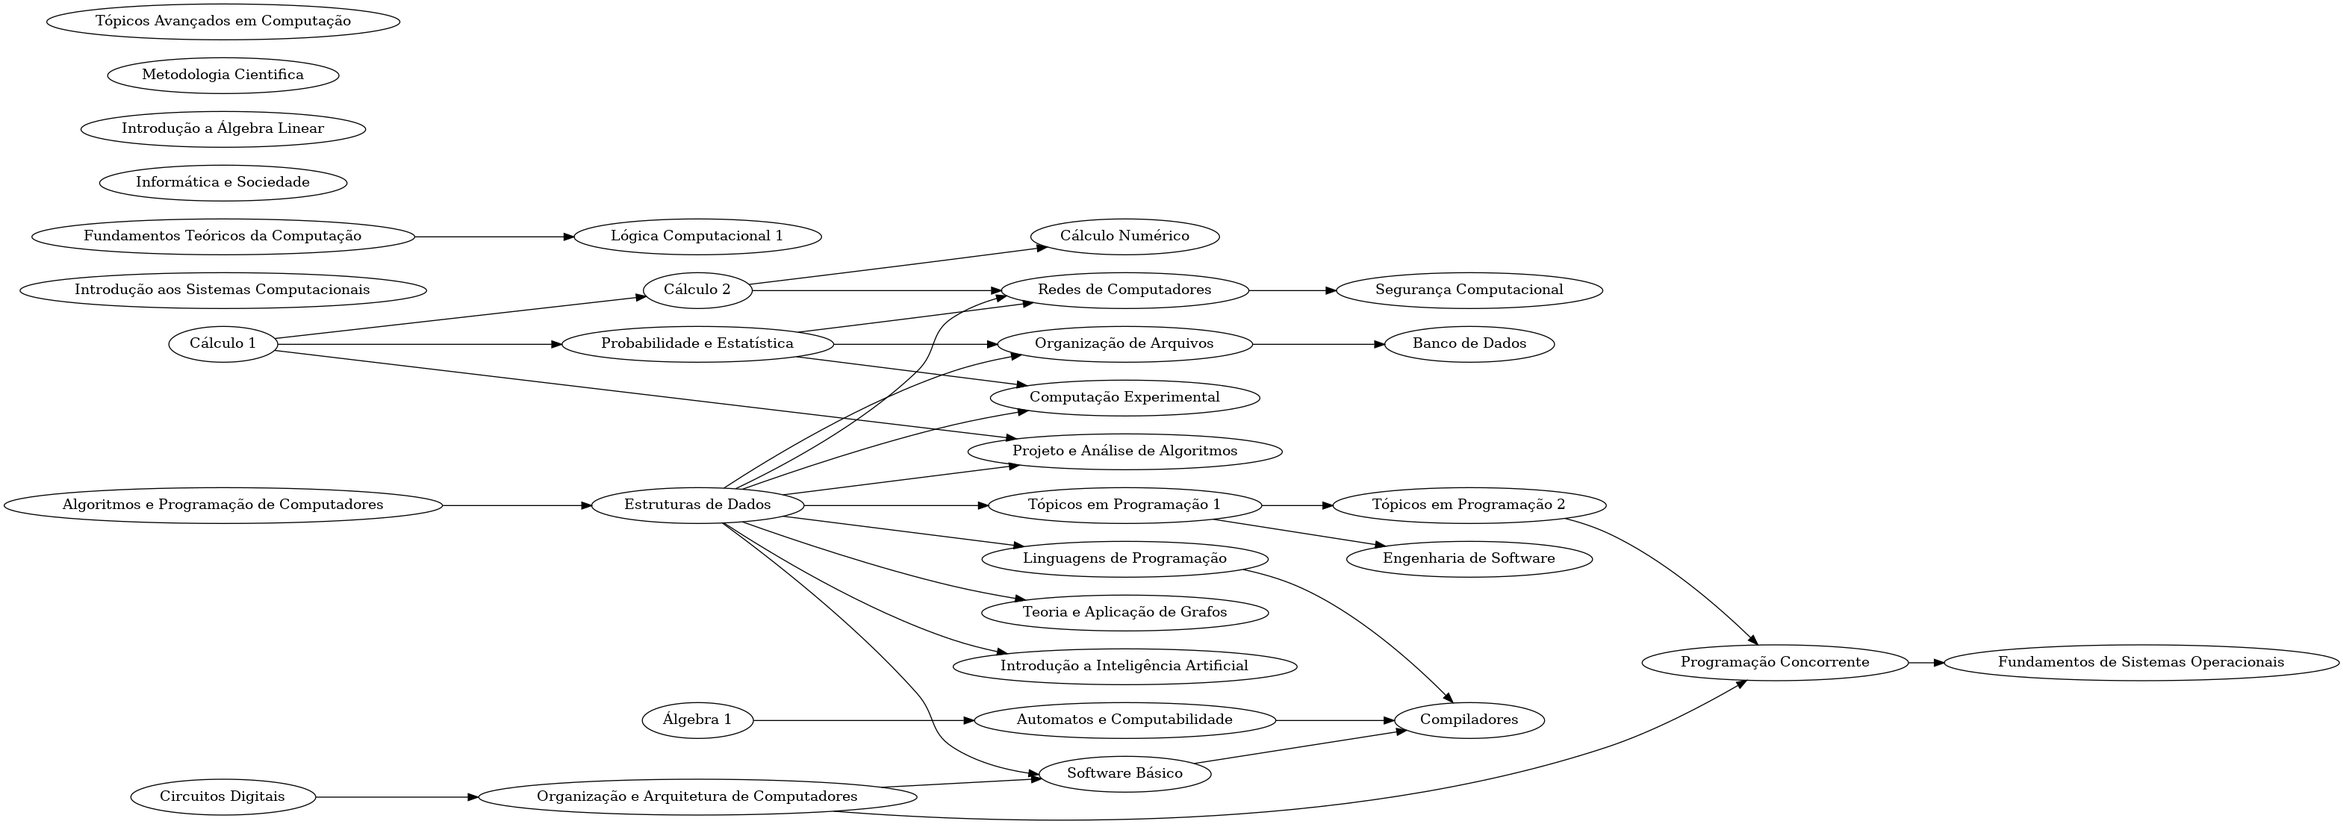
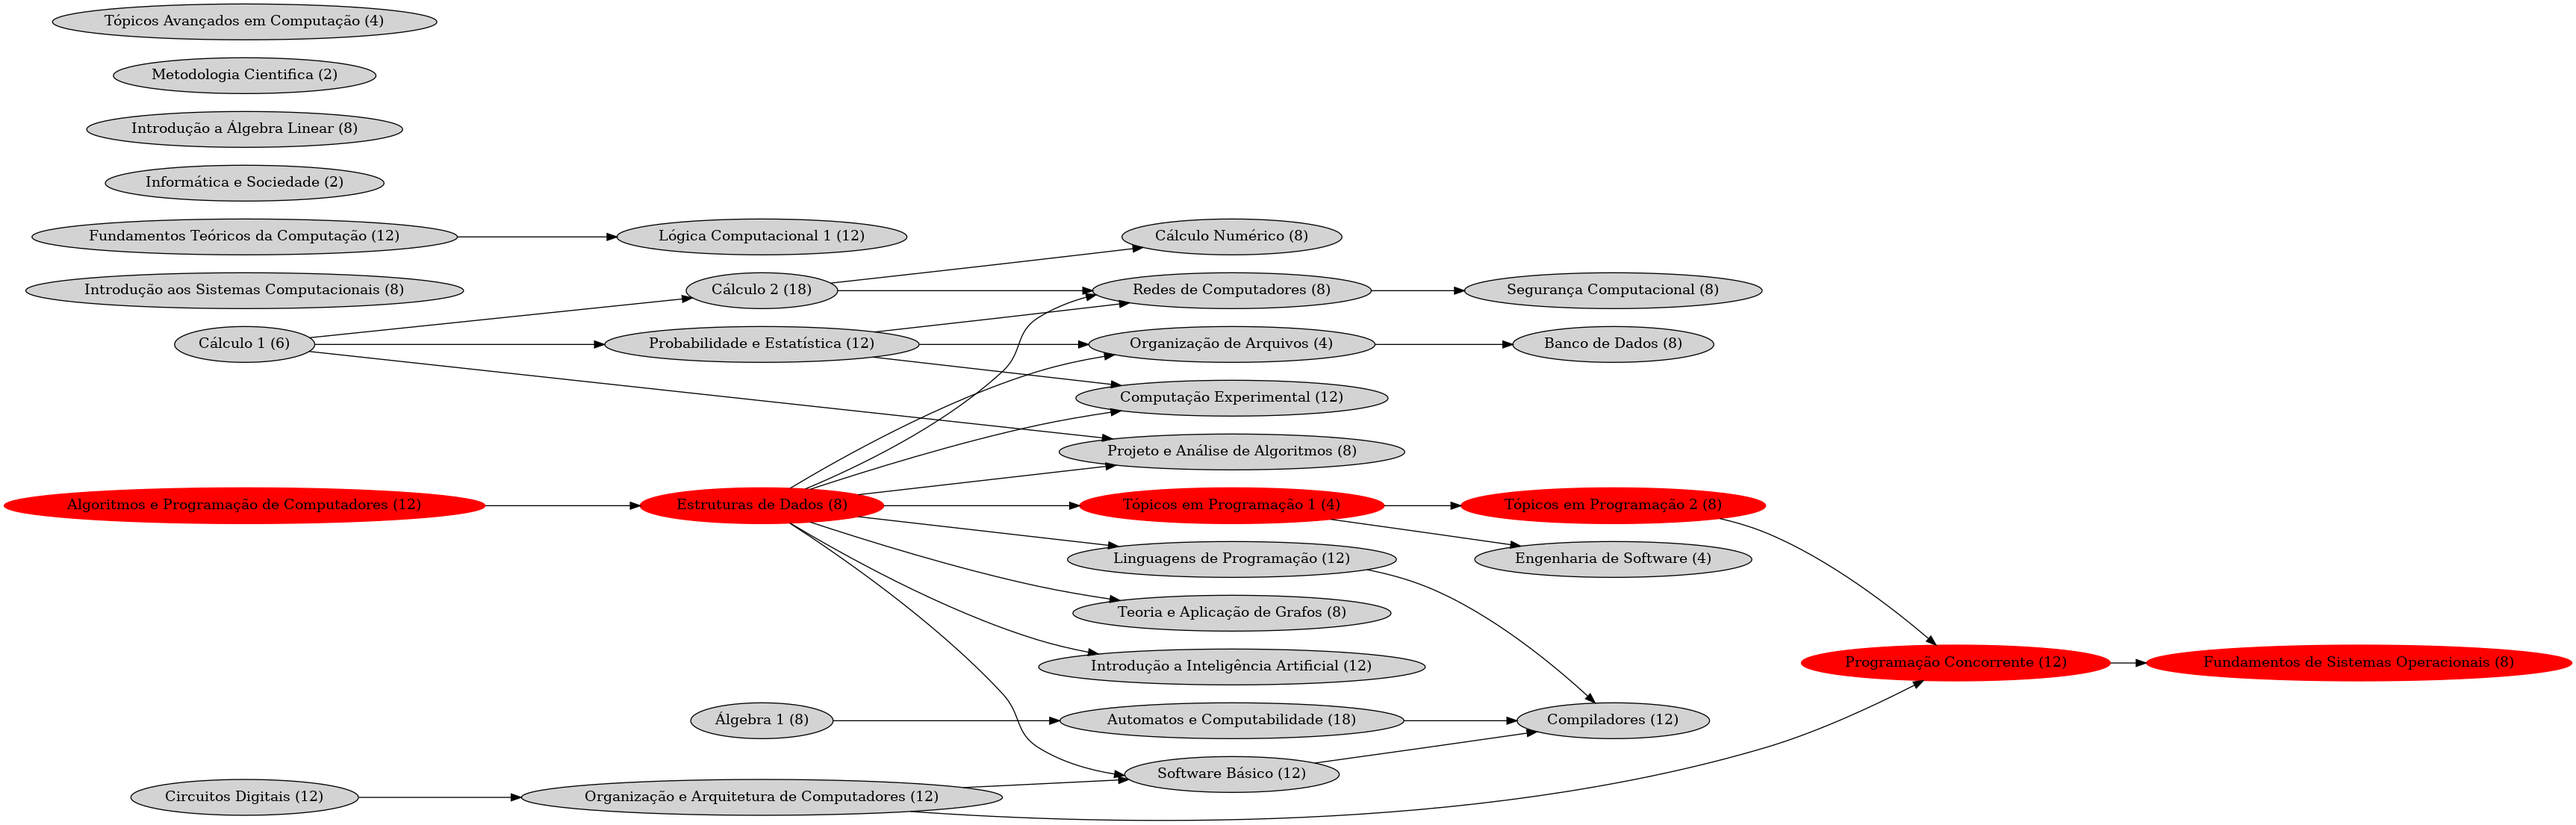
new critical path function, new program flow, updated the image script

diff --git a/p2/src/main.c b/p2/src/main.c
@@ -36,14 +36,13 @@ int NVERTICES;      // numero maximo de vertices
 // funcao para imprimir toda o grafo
 void printNetwork()
 {
-    saida = fopen("./out/gerarImagemDAG.sh", "w+");
-    fprintf(saida, "echo 'digraph finite_state_machine {	rankdir=LR;\n"); 
+    fprintf(saida, "echo 'digraph DAG {	rankdir=LR; node[style=filled];\n"); 
     for (int i = 1; i < mynetwork->nvertices + 1; i++)
     {
         printf("Disciplina %s:\n", mynetwork->vertex[i - 1].label);
         
         if (mynetwork->vertex[i - 1].degree == 0){
-            fprintf(saida, "\"%s\";\n", mynetwork->vertex[i - 1].label);
+            fprintf(saida, "\"%s (%d)\";\n", mynetwork->vertex[i - 1].label, mynetwork->vertex[i-1].weight);
             printf("\n");
         }
         else{
@@ -51,7 +50,7 @@ void printNetwork()
             {
                 int target = mynetwork->vertex[i - 1].edge[j].target;
                 printf("%s", mynetwork->vertex[target].label);
-                fprintf(saida, "\"%s\" -> \"%s\";\n", mynetwork->vertex[i - 1].label, mynetwork->vertex[target].label);
+                fprintf(saida, "\"%s (%d)\" -> \"%s (%d)\";\n", mynetwork->vertex[i - 1].label, mynetwork->vertex[i - 1].weight,  mynetwork->vertex[target].label, mynetwork->vertex[target].weight);
                 if (j == mynetwork->vertex[i - 1].degree - 1)
                 {
                     printf("\n\n");
@@ -63,9 +62,7 @@ void printNetwork()
             }
         }
     }
-    fprintf(saida, "}' | dot -Tpng > imagemDAG.png");
-    fclose(saida);
-    printf("GERADO ARQUIVO /out/gerarImagemDAG.sh PARA CRIAR A IMAGEM\n");
+   
 }
 
 //funcao simples para encontrar todos os vertices de origem do grafo
@@ -105,7 +102,6 @@ void DFS(int v_id, int visited[], int peso)
 {
     visited[v_id] = 1; // marca o atual como visitado
     VERTEX v = mynetwork->vertex[v_id];
-    printf("%d \n", v.weight);
     peso += v.weight;
 
     for (int i = 0; i < v.degree; i++)
@@ -122,6 +118,30 @@ void DFS(int v_id, int visited[], int peso)
         push(sp, peso);
     }
     return;
+}
+
+// funcao para encontrar recursivamente o caminho entre origem e destino
+int backflowDFS(int v_id, int visited[], int destination){
+    visited[v_id] = 1; // marca o atual como visitado
+    VERTEX v = mynetwork->vertex[v_id];
+    int result = 0;
+
+    for (int i = 0; i < v.degree; i++)
+    {
+        VERTEX adj = mynetwork->vertex[v.edge[i].target]; // vertice adjacente ao atual
+        if (!visited[adj.id])
+        {
+            result = backflowDFS(adj.id, visited, destination);
+            if(result){
+                push(sp, v_id);
+            }
+        }
+    }
+    if (v_id == destination)
+    {
+        return 1;
+    }
+    return result;
 }
 
 // funcao para imprimir um caminho critico baseado nos pesos de cada materia
@@ -179,8 +199,41 @@ void printCP()
         }
     }
     struct path pesoMAX = da_get(maxPaths, idmaxPeso);
-    printf("CAMINHO DE MAIOR PESO:\n");
-    printf("%s -> %s : PESO %d\n", mynetwork->vertex[pesoMAX.origem].label, mynetwork->vertex[pesoMAX.destino].label, pesoMAX.peso);
+
+    sp = stack;
+    int visited[NVERTICES];
+
+    for (int i = 0; i < NVERTICES; i++)
+            visited[i] = 0;
+    backflowDFS(pesoMAX.origem, visited, pesoMAX.destino);
+
+    printf("\n\nCAMINHO DE MAIOR PESO:\n");
+            printf("\n\t------------------------------\n");
+
+    int pesototal = 0;
+    printf("%s (%d) -> %s (%d) -> ", mynetwork->vertex[pesoMAX.origem].label, mynetwork->vertex[pesoMAX.origem].weight,
+    mynetwork->vertex[mynetwork->vertex[pesoMAX.origem].edge[0].target].label,
+    mynetwork->vertex[mynetwork->vertex[pesoMAX.origem].edge[0].target].weight);
+    fprintf(saida, "\"%s (%d)\" [color=red];\n", mynetwork->vertex[pesoMAX.origem].label, mynetwork->vertex[pesoMAX.origem].weight);
+    fprintf(saida, "\"%s (%d)\" [color=red];\n", mynetwork->vertex[mynetwork->vertex[pesoMAX.origem].edge[0].target].label, 
+    mynetwork->vertex[mynetwork->vertex[pesoMAX.origem].edge[0].target].weight);
+
+    pesototal += mynetwork->vertex[pesoMAX.origem].weight;
+
+    while (sp != stack)
+        {
+            int pop = pop(sp);
+            printf("%s (%d) -> ", mynetwork->vertex[pop].label, mynetwork->vertex[pop].weight);
+            fprintf(saida, "\"%s (%d)\" [color=red];\n", mynetwork->vertex[pop].label, mynetwork->vertex[pop].weight);
+
+            pesototal += mynetwork->vertex[pop].weight;
+        }
+    printf("%s (%d)\n", mynetwork->vertex[pesoMAX.destino].label, mynetwork->vertex[pesoMAX.destino].weight);
+    fprintf(saida, "\"%s (%d)\" [color=red];", mynetwork->vertex[pesoMAX.destino].label, mynetwork->vertex[pesoMAX.destino].weight);
+
+    pesototal += mynetwork->vertex[pesoMAX.destino].weight;
+
+    printf("PESO %d\n", pesototal);
     return;
 }
 
@@ -241,43 +294,24 @@ int main()
     read_network(mynetwork, myfile);
     fclose(myfile);
 
+    saida = fopen("./out/gerarImagemDAG.sh", "w+");
+
     NVERTICES = mynetwork->nvertices;
 
-    int choice = 0;
-    while (choice != '4')
-    {
         printf("\n\tFluxo do curso: Ciencias da Computacao");
-        printf("\n\t------------------------------");
-        printf("\n\n\t 1. Imprimir DAG");
-        printf("\n\t 2. Imprimir Ordenacao Topologica");
-        printf("\n\t 3. Imprimir Caminho Critico");
-        printf("\n\t 4. Sair");
-        printf("\n\n Entre com a opcao: ");
-        choice = getchar();
-        switch (choice)
-        {
-        case '1':
-            printf("\n\n");
+        printf("\n\t------------------------------\n");
             printNetwork();
-            printf("Pressione uma tecla para voltar ao menu\n");
-            (void)getchar();
-            break;
-        case '2':
-            printf("\n\n");
+        printf("\nOrdem Topológica:\n");
+                printf("\n\t------------------------------\n");
+
             printTopologicalOrder();
-            break;
-        case '3':
-            printf("\n\n");
             printCP();
-            break;
-        case '4':
-            printf("\n\n");
-            break;
-        default:
-            printf("\n\nOpcao invalida...Tente novamente\n");
-        }
-        (void)getchar();
-    }
+         fprintf(saida, "}' | dot -Tpng > imagemDAG.png");
+        fclose(saida);
+                printf("\n\t------------------------------\n");
+
+        printf("GERADO ARQUIVO /out/gerarImagemDAG.sh PARA CRIAR A IMAGEM\n");
+          
     return 0;
 }
 
